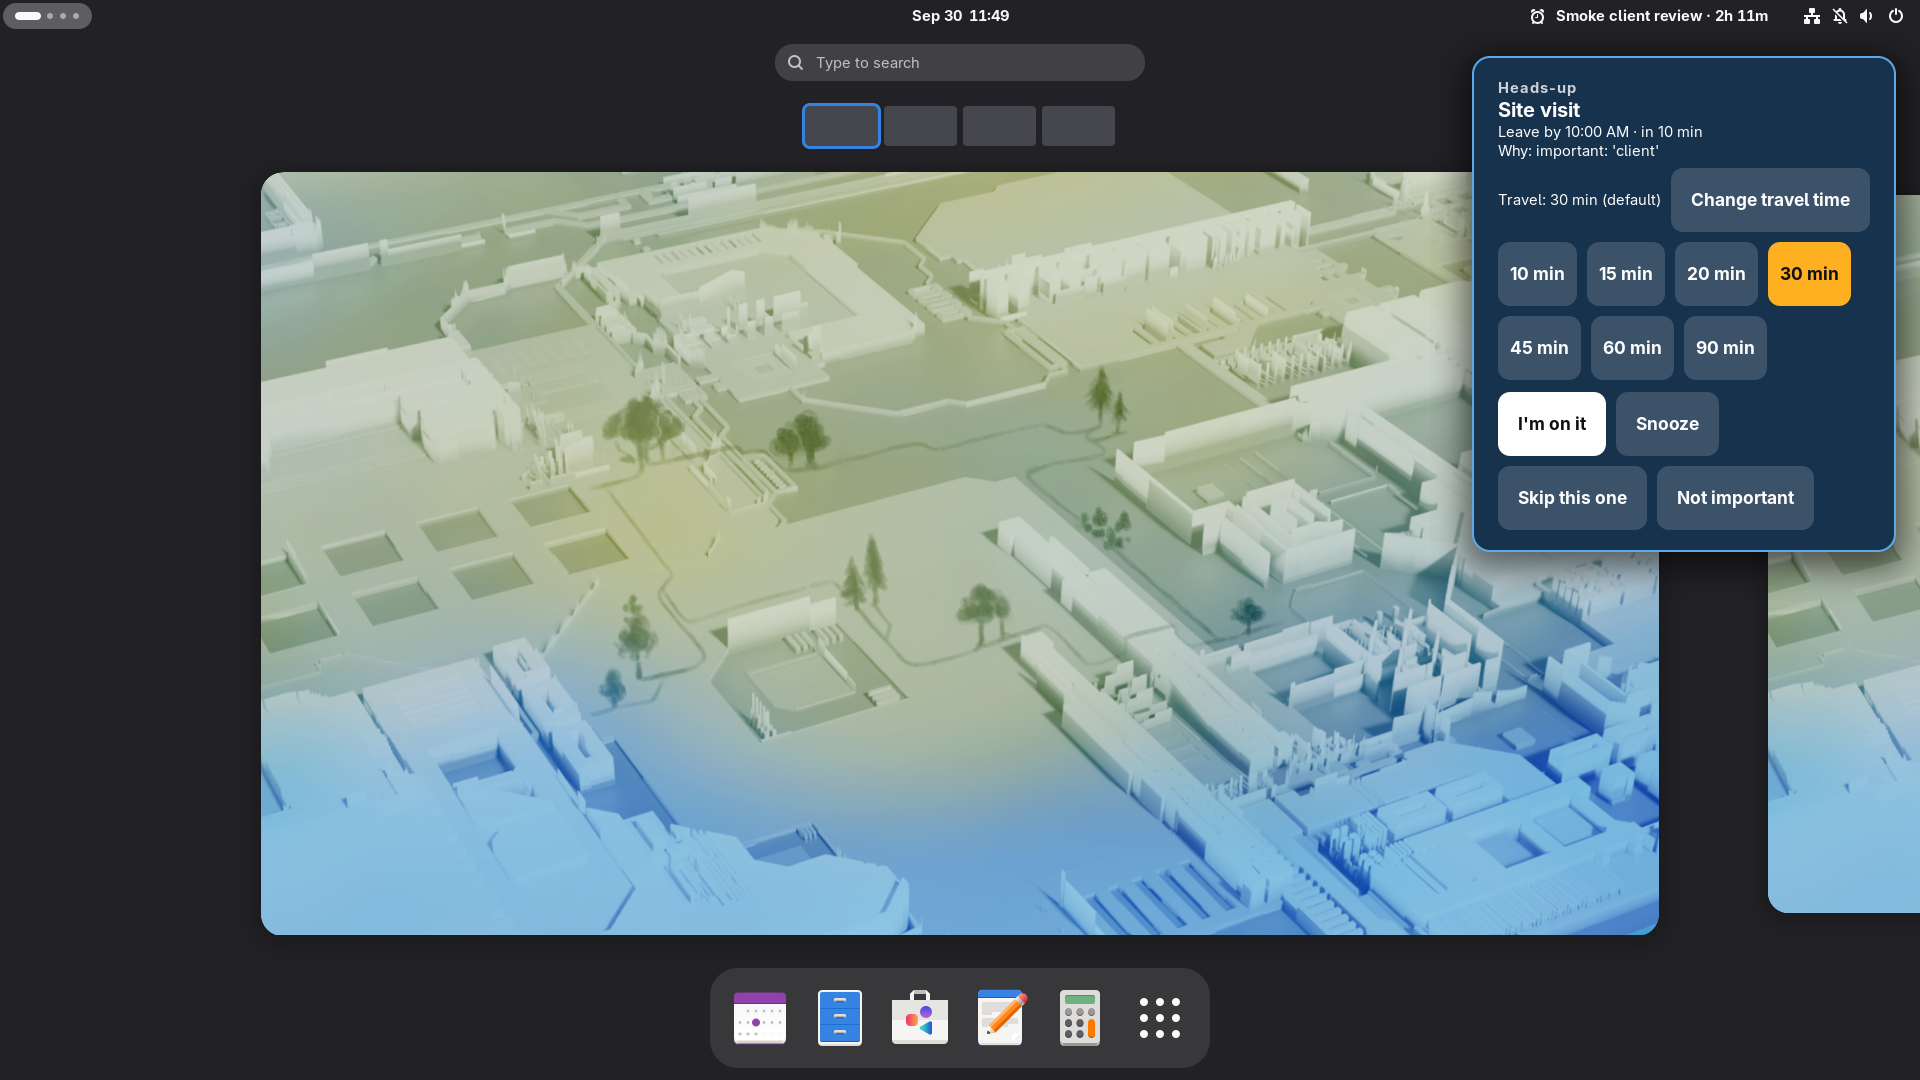
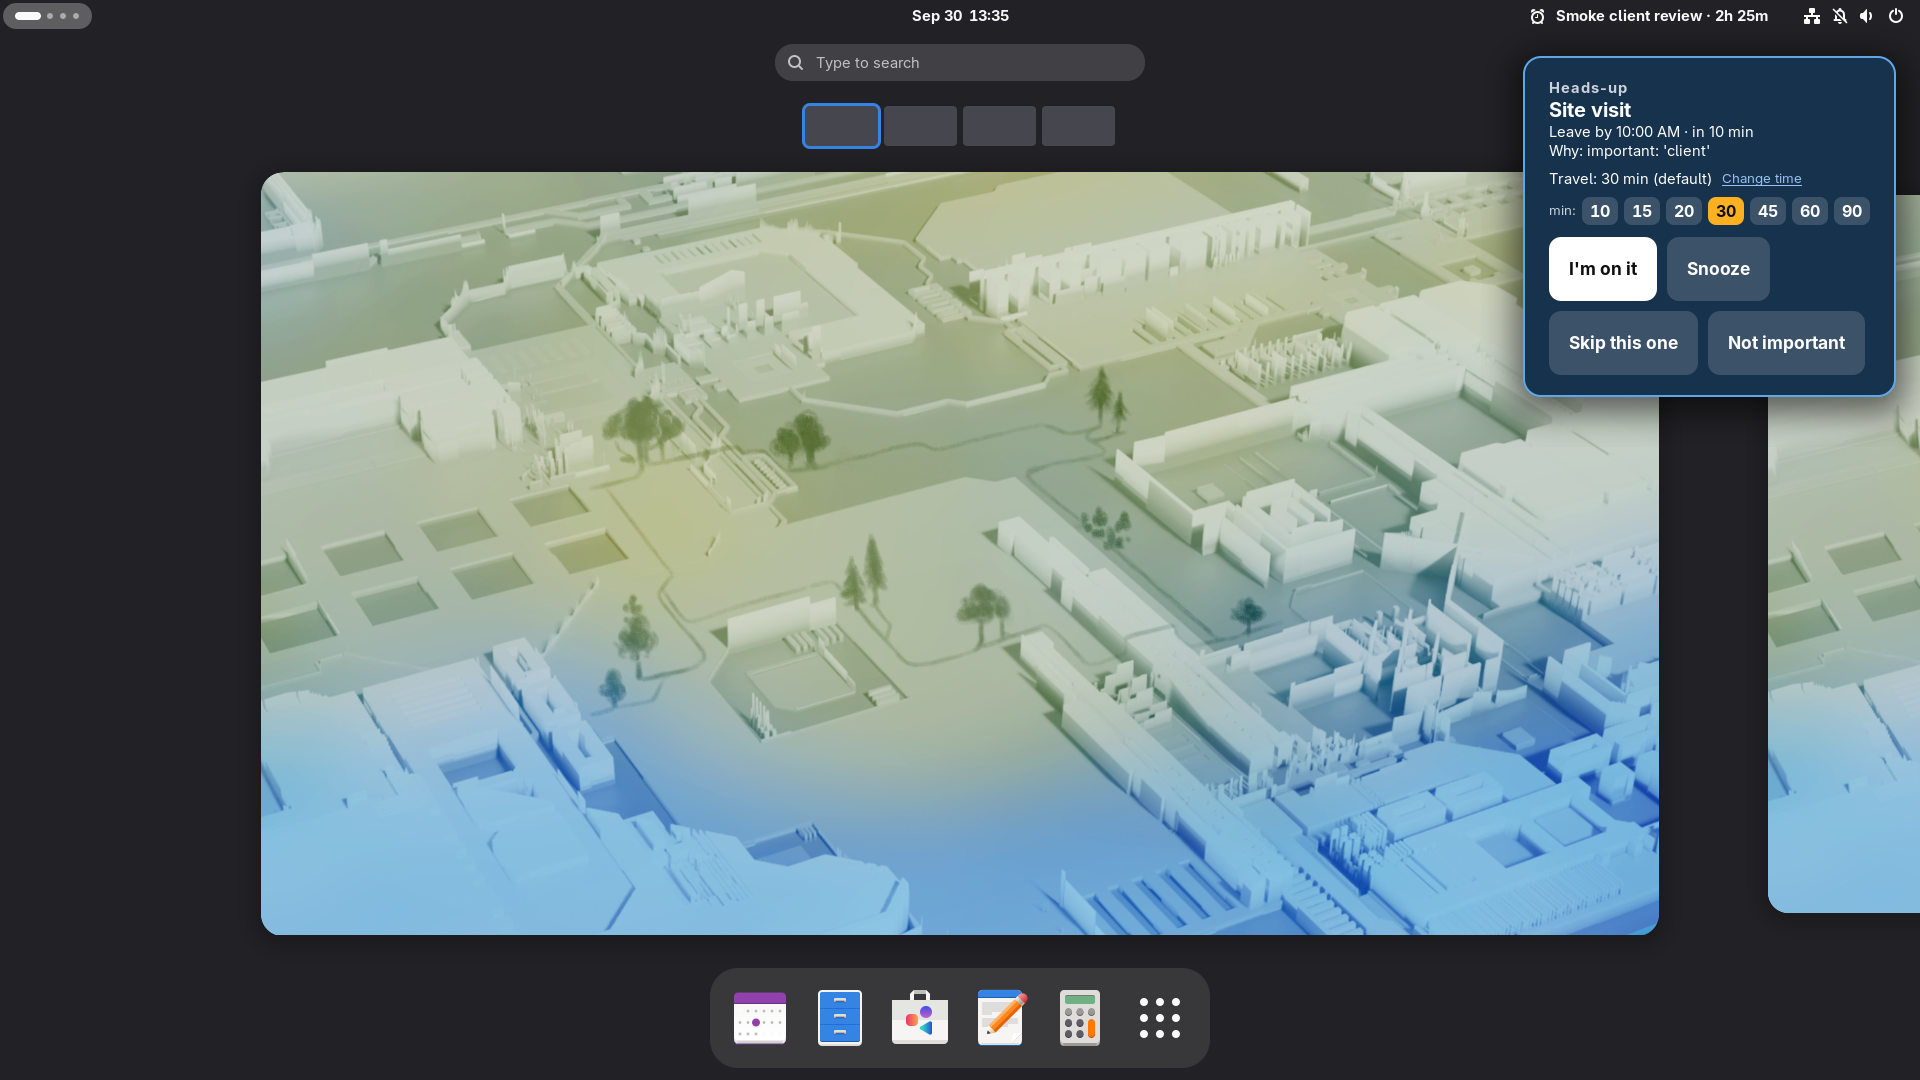
PG-11 Part E: Change time link and one compact row of numbers; smoke 6d guards one line, fit, link look

Changed region(s): [[0.75, 0.0306, 1.0, 0.55]]

diff --git a/tests/smoke/alert-ladder.js b/tests/smoke/alert-ladder.js
@@ -368,7 +368,7 @@ function titleProblems(root) {
 /** Travel texts under root that are ellipsized, narrower than their natural width, or off every monitor. */
 function travelTextProblems(root) {
     const isTravelText = a => a.name === 'payattention-travel-text' || a.name === 'payattention-travel-change' ||
-        !!a.name?.startsWith('payattention-travel-choice-');
+        a.name === 'payattention-travel-unit' || !!a.name?.startsWith('payattention-travel-choice-');
     return findAll(root, isTravelText).flatMap(a => {
         // A button's text is wherever St put it in the button (a `label:` button's child is not an St.Label).
         const text = findAll(a, t => t instanceof Clutter.Text)[0];
@@ -384,6 +384,42 @@ function travelTextProblems(root) {
         return !ellipsized && width >= natural - 0.5 && a.mapped && inside ? []
             : [`${a.name}: ellipsized=${ellipsized} width=${width}/${natural}`];
     });
+}
+
+/** How the open travel row of card breaks PRD §4: on more than one line, or wider than the card's content. */
+function travelRowProblems(card) {
+    const content = card.actor.get_first_child();
+    const max = card.actor.get_theme_node().get_max_width();
+    const row = findByName(card.actor, 'payattention-travel-choices');
+    if (!row)
+        return ['no payattention-travel-choices'];
+    // The unit is optional here, so that a row without it fails on its lines, not on a missing label.
+    const items = [findByName(row, 'payattention-travel-unit'),
+        ...findAll(row, a => !!a.name?.startsWith('payattention-travel-choice-'))].filter(a => a);
+    const centres = items.map(a => {
+        const [, y] = a.get_transformed_position();
+        const [, h] = a.get_transformed_size();
+        return Math.round(y + h / 2);
+    });
+    const [cx] = content.get_transformed_position();
+    const [cw] = content.get_transformed_size();
+    const [rx] = row.get_transformed_position();
+    const [rw] = row.get_transformed_size();
+    // Before its first layout St reports NaN, and NaN compares false with everything: never pass on it.
+    if (![...centres, cx, cw, rx, rw].every(Number.isFinite))
+        return [`the travel row is not laid out (y-centres ${centres.join(', ')}, row ${rx}+${rw}, content ${cx}+${cw})`];
+    const problems = [];
+    if (Math.max(...centres) - Math.min(...centres) > 1) {
+        const distinct = [...new Set(centres)];
+        problems.push(`the travel row is on ${distinct.length} lines (y-centres ${distinct.join(', ')})`);
+    }
+    if (!(max > 0))
+        problems.push(`no max-width on the card (${max})`);
+    else if (cw > max + 0.5)
+        problems.push(`the card's content is ${cw} px, more than its ${max} px`);
+    if (rx < cx - 0.5 || rx + rw > cx + cw + 0.5)
+        problems.push(`the travel row (${rx}..${rx + rw}) runs outside the card's content (${cx}..${cx + cw})`);
+    return problems;
 }
 
 /** Buttons of root that are not wholly inside one monitor. */
@@ -454,7 +490,7 @@ async function checkWorstCase(name, home) {
 }
 
 /**
- * IN_PERSON_ALERT's "Change travel time" is a real button that asks the controller to
+ * IN_PERSON_ALERT's "Change time" is a link that asks the controller to
  * toggle the choices (the UI holds no open state, interfaces.md §3); drawn open, the
  * boxes are all there and every travel text reads in full (PRD §4).
  */
@@ -470,11 +506,14 @@ async function checkTravelChoices(name, home) {
             check(change, name, `step-${step} card: no payattention-travel-change`);
             const clicked = await clickActor(change, name);
             await mustWait(() => actions.length > 0, 2000, name,
-                `step-${step} card: Change travel time dispatched nothing (${clicked})`);
+                `step-${step} card: Change time dispatched nothing (${clicked})`);
             const want = JSON.stringify([{ type: 'toggleTravelChoices', key: IN_PERSON_ALERT.key }]);
             check(JSON.stringify(actions) === want, name, `step-${step} card: dispatched ${JSON.stringify(actions)}, want ${want}`);
-            check(!findByName(closed.actor, 'payattention-travel-choices')?.visible, name,
+            check(!findByName(closed.actor, 'payattention-travel-choices')?.mapped, name,
                 `step-${step} card: the travel choices opened by themselves`);
+            // mapped, not visible: the label inside a hidden row keeps visible === true.
+            check(!findByName(closed.actor, 'payattention-travel-unit')?.mapped, name,
+                `step-${step} card: the "min:" label shows while the choices are closed`);
         } finally {
             closed.destroy();
         }
@@ -491,10 +530,46 @@ async function checkTravelChoices(name, home) {
             const current = boxes.filter(b => b.has_style_class_name('payattention-choice-current')).map(b => b.name);
             check(current.length === 1 && current[0] === 'payattention-travel-choice-30', name,
                 `step-${step} card: marked as current: ${current.join(', ') || 'none'}`);
-            await mustWait(() => travelTextProblems(card.actor).length === 0, 2000, name,
-                `step-${step} card: ${travelTextProblems(card.actor).join('; ')}`);
-            check(change instanceof St.Button && change.get_style_class_name() === 'payattention-button', name,
-                `step-${step} card: the change control is not a secondary button (${change.constructor.name} "${change.get_style_class_name?.()}")`);
+            // The message is taken after the wait: before layout it would only say "not laid out".
+            await waitFor(() => travelRowProblems(card).length === 0, 2000);
+            check(travelRowProblems(card).length === 0, name, `step-${step} card: ${travelRowProblems(card).join('; ')}`);
+            await waitFor(() => travelTextProblems(card.actor).length === 0, 2000);
+            check(travelTextProblems(card.actor).length === 0, name, `step-${step} card: ${travelTextProblems(card.actor).join('; ')}`);
+            for (const box of boxes) {
+                const text = findAll(box, t => t instanceof Clutter.Text)[0]?.text;
+                check(text === box.name.slice('payattention-travel-choice-'.length), name,
+                    `step-${step} card: ${box.name} reads "${text}", want the number only`);
+            }
+            const row = findByName(card.actor, 'payattention-travel-choices');
+            const unit = findByName(card.actor, 'payattention-travel-unit');
+            check(unit, name, `step-${step} card: no payattention-travel-unit`);
+            check(unit.text === 'min:', name, `step-${step} card: the unit reads "${unit.text}", want "min:"`);
+            check(unit.get_parent() === row, name, `step-${step} card: the "min:" label is not in the travel row`);
+            check(row.get_first_child() === unit, name, `step-${step} card: the "min:" label is not first in the travel row`);
+            // clickActor left the pointer where the closed card's link was, and this card draws its link there: check it at rest.
+            change.hover = false;
+            check(!change.has_key_focus(), name, `step-${step} card: the Change time link has key focus, so its at-rest look cannot be checked`);
+            const text = change.get_child();
+            const node = change.get_theme_node();
+            const ack = findByName(card.actor, 'payattention-action-ack');
+            check(change instanceof St.Button, name, `step-${step} card: the Change time link is a ${change.constructor.name}, not an St.Button`);
+            check(text.text === 'Change time', name, `step-${step} card: the link reads "${text.text}", want "Change time"`);
+            check(change.has_style_class_name('payattention-travel-change') && !change.has_style_class_name('payattention-button'), name,
+                `step-${step} card: the Change time link is styled as a card button ("${change.get_style_class_name()}")`);
+            check((text.get_theme_node().get_text_decoration() & St.TextDecoration.UNDERLINE) !== 0, name,
+                `step-${step} card: the Change time link is not underlined`);
+            check(node.get_font().get_size() < ack.get_theme_node().get_font().get_size(), name,
+                `step-${step} card: the Change time link is not smaller than the card's buttons`);
+            check(node.get_background_color().alpha === 0, name, `step-${step} card: the Change time link has a background`);
+            const colour = text.get_theme_node().get_foreground_color().to_string();
+            check(colour === '#99c1f1ff', name, `step-${step} card: the Change time link is ${colour}, want #99c1f1ff`);
+            change.hover = true;
+            const hovered = text.get_theme_node();
+            check(hovered.get_foreground_color().to_string() === '#ffffffff', name,
+                `step-${step} card: the hovered Change time link is ${hovered.get_foreground_color().to_string()}, want #ffffffff`);
+            check((hovered.get_text_decoration() & St.TextDecoration.UNDERLINE) !== 0, name,
+                `step-${step} card: the hovered Change time link is not underlined`);
+            change.hover = false;
         } finally {
             card.destroy();
         }

diff --git a/extension/ui/alertContent.js b/extension/ui/alertContent.js
@@ -10,8 +10,6 @@ import St from 'gi://St';
 
 // A click already under way when the alert appears must not choose an action.
 const ARM_DELAY_MS = 800;
-// Four 13pt "90 min" boxes (83 px each) fit the heads-up card's 380 px; seven do not.
-const TRAVEL_CHOICES_PER_ROW = 4;
 
 function label(styleClass, text) {
     return new St.Label({ style_class: styleClass, text });
@@ -137,26 +135,28 @@ export class AlertContent {
             return;
         }
         const line = new St.BoxLayout({ style_class: 'payattention-actions' });
-        const change = unclippedButton('payattention-travel-change', 'Change travel time', 'payattention-button');
+        const change = unclippedButton('payattention-travel-change', 'Change time', 'payattention-travel-change');
+        change.y_align = Clutter.ActorAlign.CENTER;
         line.add_child(text);
         line.add_child(change);
 
         const choices = new St.BoxLayout({
             name: 'payattention-travel-choices',
-            orientation: Clutter.Orientation.VERTICAL,
             style_class: 'payattention-travel-choices',
+            x_align: Clutter.ActorAlign.START,
             visible: travel.choicesOpen,
         });
-        for (let i = 0; i < travel.choices.length; i += TRAVEL_CHOICES_PER_ROW) {
-            const row = new St.BoxLayout({ style_class: 'payattention-actions', x_align: Clutter.ActorAlign.START });
-            for (const minutes of travel.choices.slice(i, i + TRAVEL_CHOICES_PER_ROW)) {
-                const button = unclippedButton(`payattention-travel-choice-${minutes}`, `${minutes} min`, 'payattention-button payattention-travel-choice');
-                if (minutes === travel.minutes)
-                    button.add_style_class_name('payattention-choice-current');
-                button.connect('clicked', () => this._dispatch({ type: 'setTravel', placeKey: travel.placeKey, minutes }));
-                row.add_child(button);
-            }
-            choices.add_child(row);
+        const unit = label('payattention-travel-unit', 'min:');
+        unit.name = 'payattention-travel-unit';
+        unit.y_align = Clutter.ActorAlign.CENTER;
+        unit.clutter_text.ellipsize = Pango.EllipsizeMode.NONE;
+        choices.add_child(unit);
+        for (const minutes of travel.choices) {
+            const button = unclippedButton(`payattention-travel-choice-${minutes}`, String(minutes), 'payattention-button payattention-travel-choice');
+            if (minutes === travel.minutes)
+                button.add_style_class_name('payattention-choice-current');
+            button.connect('clicked', () => this._dispatch({ type: 'setTravel', placeKey: travel.placeKey, minutes }));
+            choices.add_child(button);
         }
         // The controller holds whether the choices are open: while they are, the heads-up stays (interfaces.md §3).
         change.connect('clicked', () => this._dispatch({ type: 'toggleTravelChoices', key: this._key }));

diff --git a/extension/stylesheet.css b/extension/stylesheet.css
@@ -22,10 +22,17 @@
 .payattention-button:hover, .payattention-button:focus { background-color: rgba(255,255,255,0.30); }
 .payattention-button-primary { background-color: #ffffff; color: #111111; }
 .payattention-button-primary:hover, .payattention-button-primary:focus { background-color: #e6e6e6; }
-.payattention-travel { spacing: 10px; padding-top: 8px; }
-.payattention-travel-choices { spacing: 10px; }
-/* Four boxes fit the 380 px heads-up card (ui/alertContent.js TRAVEL_CHOICES_PER_ROW). */
-.payattention-travel-choice { padding: 10px 12px; }
+.payattention-travel { spacing: 8px; padding-top: 8px; }
+/* A link, never a card button (PRD §4): small, link blue, underlined. */
+.payattention-travel-change { font-size: 10pt; color: #99c1f1; padding: 2px 0; }
+.payattention-travel-change:hover, .payattention-travel-change:focus { color: #ffffff; }
+/* St does not inherit text-decoration: the label inside the link draws the text, so it carries the underline. */
+.payattention-travel-change StLabel { text-decoration: underline; }
+/* One row: "min:" + 7 x 36 px boxes + 6 x 6 px = 321 px, inside the 380 px heads-up card (smoke 6d). */
+.payattention-travel-choices { spacing: 6px; }
+.payattention-travel-unit { font-size: 10pt; color: rgba(255,255,255,0.8); }
+.payattention-travel-choice { min-height: 0px; padding: 4px 8px; border-radius: 8px; font-size: 12pt;
+  font-feature-settings: "tnum"; }
 .payattention-choice-current { background-color: #ffb020; color: #111111; }
 .payattention-takeover { background-color: rgba(0,0,0,0.0); }
 .payattention-takeover-panel { background-color: rgba(80,0,0,0.96); spacing: 18px; padding: 48px; color: #ffffff; }

diff --git a/tests/smoke/sample-check.js b/tests/smoke/sample-check.js
@@ -40,7 +40,7 @@ async function runChecks() {
         const text = findByName(global.stage, 'payattention-travel-text');
         const change = findByName(global.stage, 'payattention-travel-change');
         return text?.mapped && text.text === 'Travel: 30 min (default)' && change?.mapped;
-    }, 60000, '2-heads-up', 'no heads-up with "Travel: 30 min (default)" and a mapped Change travel time button');
+    }, 60000, '2-heads-up', 'no heads-up with "Travel: 30 min (default)" and a mapped Change time link');
 
     // 3. The menu row of the fixture expands to the seven travel choices.
     const indicator = Main.panel.statusArea.payattention;

diff --git a/README.md b/README.md
@@ -51,7 +51,7 @@ To reinstall after uninstalling, run `npm run install:local`, then log out and b
 3. If a verdict is wrong, flip the **Must attend** switch. Use **Apply to whole series** so that every repeat of the meeting follows.
    - Personal tasks that matter but have no guests, such as picking up a child, are silent by default. Mark them once, for the whole series.
 4. Click **Test alert**. It runs the whole ladder in about 30 seconds, so you can see each step without a real meeting.
-5. For in-person meetings, set the travel time once: in the meeting's row in the menu, or with **Change travel time** on its heads-up or nudge card. It is remembered for that place.
+5. For in-person meetings, set the travel time once: in the meeting's row in the menu, or with the **Change time** link on its heads-up or nudge card. It is remembered for that place.
 
 ## How it decides
 
